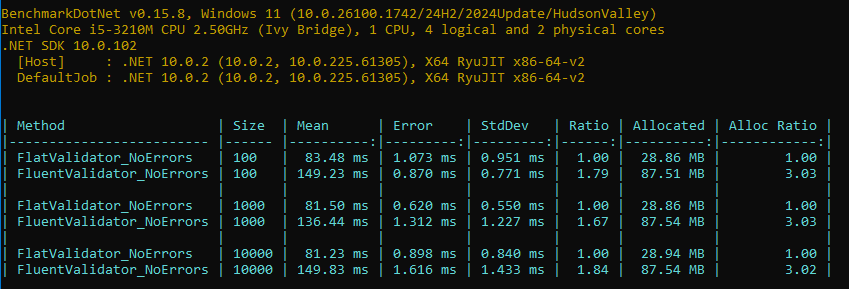
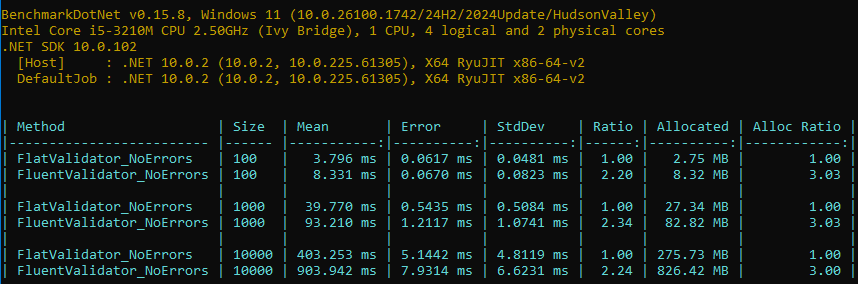
Merge pull request #113 from belset/dev
Beckmark corrections

Pull request: Beckmark corrections

diff --git a/src/FlatValidator.Benchmarks/FlatValidatorForBigModel.cs b/src/FlatValidator.Benchmarks/FlatValidatorForBigModel.cs
@@ -6,51 +6,51 @@ public class FlatValidatorForBigModel : FlatValidator<BigModel>
     public FlatValidatorForBigModel()
     {
         ErrorIf(static m => m.Text1 is null, "Text1 cannot be null", m => m.Text1);
-        ErrorIf(static m => m.Text1 is null || !m.Text1.Contains('a', StringComparison.InvariantCultureIgnoreCase), "Message T1", m => m.Text1);
+        ErrorIf(static m => m.Text1 is not null && !m.Text1.Contains('a', StringComparison.InvariantCultureIgnoreCase), "Message T1", m => m.Text1);
 
         ErrorIf(static m => m.Text2 is null, "Text2 cannot be null", m => m.Text2);
-        ErrorIf(static m => m.Text2 is null || !m.Text2.Contains('b', StringComparison.InvariantCultureIgnoreCase), "Message T2", m => m.Text2);
+        ErrorIf(static m => m.Text2 is not null && !m.Text2.Contains('b', StringComparison.InvariantCultureIgnoreCase), "Message T2", m => m.Text2);
 
         ErrorIf(static m => m.Text3 is null, "Text3 cannot be null", m => m.Text3);
-        ErrorIf(static m => m.Text3 is null || !m.Text3.Contains('c', StringComparison.InvariantCultureIgnoreCase), "Message T3", m => m.Text3);
+        ErrorIf(static m => m.Text3 is not null && !m.Text3.Contains('c', StringComparison.InvariantCultureIgnoreCase), "Message T3", m => m.Text3);
 
         ErrorIf(static m => m.Text4 is null, "Text4 cannot be null", m => m.Text4);
-        ErrorIf(static m => m.Text4 is null || !m.Text4.Contains('d', StringComparison.InvariantCultureIgnoreCase), "Message T4", m => m.Text4);
+        ErrorIf(static m => m.Text4 is not null && !m.Text4.Contains('d', StringComparison.InvariantCultureIgnoreCase), "Message T4", m => m.Text4);
 
         ErrorIf(static m => m.Text5 is null, "Text5 cannot be null", m => m.Text5);
-        ErrorIf(static m => m.Text5 is null || !m.Text5.Contains('e', StringComparison.InvariantCultureIgnoreCase), "Message T5", m => m.Text5);
+        ErrorIf(static m => m.Text5 is not null && !m.Text5.Contains('e', StringComparison.InvariantCultureIgnoreCase), "Message T5", m => m.Text5);
 
         //
         ErrorIf(static m => m.Number1 > 10, "Message N1", m => m.Number1);
         ErrorIf(static m => m.Number2 > 10, "Message N2", m => m.Number2);
         ErrorIf(static m => m.Number3 > 10, "Message N3", m => m.Number3);
 
-        //
+        // plain data
         ErrorIf(static m => m.DecimalNumber1 is null, "S1 cannot be null", m => m.DecimalNumber1);
-        ErrorIf(static m => m.DecimalNumber1 is null || m.DecimalNumber1 > 10, "Message S1", m => m.DecimalNumber1);
+        ErrorIf(static m => m.DecimalNumber1 is not null && m.DecimalNumber1 > 10, "Message S1", m => m.DecimalNumber1);
 
         ErrorIf(static m => m.DecimalNumber2 is null, "S2 cannot be null", m => m.DecimalNumber2);
-        ErrorIf(static m => m.DecimalNumber2 is null || m.DecimalNumber2 > 10, "Message S2", m => m.DecimalNumber2);
+        ErrorIf(static m => m.DecimalNumber2 is not null && m.DecimalNumber2 > 10, "Message S2", m => m.DecimalNumber2);
 
         ErrorIf(static m => m.DecimalNumber3 is null, "S3 cannot be null", m => m.DecimalNumber3);
-        ErrorIf(static m => m.DecimalNumber3 is null || m.DecimalNumber3 > 10, "Message S3", m => m.DecimalNumber3);
+        ErrorIf(static m => m.DecimalNumber3 is not null && m.DecimalNumber3 > 10, "Message S3", m => m.DecimalNumber3);
 
-        //
+        // collections
         ErrorIf(static m => m.StringCollection is null, "String collection cannot be null", m => m.StringCollection);
-        ErrorIf(static m => m.StringCollection is null || !m.StringCollection.All(BigModel.IsValidStringInCollection), "String collection", m => m.StringCollection);
+        ErrorIf(static m => m.StringCollection is not null && !m.StringCollection.All(BigModel.IsValidStringInCollection), "String collection", m => m.StringCollection);
 
         ErrorIf(static m => m.IntCollection is null, "Int collection cannot be null", m => m.IntCollection);
-        ErrorIf(static m => m.IntCollection is null || !m.IntCollection.All(BigModel.IsValidIntInCollection), "Int collection", m => m.IntCollection);
+        ErrorIf(static m => m.IntCollection is not null && !m.IntCollection.All(BigModel.IsValidIntInCollection), "Int collection", m => m.IntCollection);
 
         ErrorIf(static m => m.DecimalCollection is null, "Decimal collection cannot be null", m => m.DecimalCollection);
-        ErrorIf(static m => m.DecimalCollection is null || !m.DecimalCollection.All(BigModel.IsValidDecimalInCollection), "Decimal collection", m => m.DecimalCollection);
+        ErrorIf(static m => m.DecimalCollection is not null && !m.DecimalCollection.All(BigModel.IsValidDecimalInCollection), "Decimal collection", m => m.DecimalCollection);
 
-        //
+        // netsed data
         ErrorIf(static m => m.NestedModel1.NestedText1 is null, "NestedText1 cannot be null", m => m.NestedModel1.NestedText1);
-        ErrorIf(static m => m.NestedModel1.NestedText1 is null || !m.NestedModel1.NestedText1.StartsWith("NestedText1:"), "NestedText1 is invalid", m => m.NestedModel1.NestedText1);
+        ErrorIf(static m => m.NestedModel1.NestedText1 is not null && !m.NestedModel1.NestedText1.StartsWith("NestedText1:"), "NestedText1 is invalid", m => m.NestedModel1.NestedText1);
 
         ErrorIf(static m => m.NestedModel1.NestedText2 is null, "NestedText2 cannot be null", m => m.NestedModel1.NestedText2);
-        ErrorIf(static m => m.NestedModel1.NestedText2 is null || !m.NestedModel1.NestedText2.StartsWith("NestedText2:"), "NestedText2 is invalid", m => m.NestedModel1.NestedText2);
+        ErrorIf(static m => m.NestedModel1.NestedText2 is not null && !m.NestedModel1.NestedText2.StartsWith("NestedText2:"), "NestedText2 is invalid", m => m.NestedModel1.NestedText2);
     }
 }
 

diff --git a/src/FlatValidator.Benchmarks/BenchmarkWithNoErrors.cs b/src/FlatValidator.Benchmarks/BenchmarkWithNoErrors.cs
@@ -20,7 +20,9 @@ public class BenchmarkWithNoErrors
     [GlobalSetup]
     public void GlobalSetup()
     {
-        _noErrorModels = Enumerable.Range(0, 999).Select(x => BigModel.CreateWithNoErrors()).ToList();
+        Bogus.Randomizer.Seed = new Random(1000);
+
+        _noErrorModels = Enumerable.Range(0, Size).Select(x => BigModel.CreateWithNoErrors()).ToList();
 
         foreach (var model in _noErrorModels)
         {
@@ -38,12 +40,13 @@ public class BenchmarkWithNoErrors
     [Benchmark(Baseline = true)]
     public void FlatValidator_NoErrors()
     {
+        var validator = new FlatValidatorForBigModel();
         foreach (var model in _noErrorModels)
         {
-            using var validationResult = new FlatValidatorForBigModel().Validate(model);
+            var validationResult = validator.Validate(model);
             if (!validationResult.IsValid)
             {
-                Debug.Assert(validationResult.Errors.Count > 0);
+                Debug.Assert(validationResult.Errors.Count == 0);
             }
         }
     }
@@ -51,12 +54,13 @@ public class BenchmarkWithNoErrors
     [Benchmark]
     public void FluentValidator_NoErrors()
     {
+        var validator = new FluentValidatorForBigModel();
         foreach (var model in _noErrorModels)
         {
-            var validationResult = new FluentValidatorForBigModel().Validate(model);
+            var validationResult = validator.Validate(model);
             if (!validationResult.IsValid)
             {
-                Debug.Assert(validationResult.Errors.Count > 0);
+                Debug.Assert(validationResult.Errors.Count == 0);
             }
         }
     }

diff --git a/src/FlatValidator.Benchmarks/Models/BigModel.cs b/src/FlatValidator.Benchmarks/Models/BigModel.cs
@@ -1,4 +1,5 @@
 using Bogus;
+using System.Buffers;
 
 namespace FlatValidatorBenchmarks.Models;
 
@@ -76,7 +77,11 @@ public class BigModel
         .RuleFor(m => m.DecimalCollection, f => Enumerable.Range(1, 100).Select(_ => f.Random.Decimal(-10_000, 10_000)).ToList())
         .RuleFor(h => h.NestedModel1, () => CreateNestedWithManyErrors());
 
-    public static Func<string, bool> IsValidStringInCollection => (s) => s.All(ch => Chars.HexLowerCase.Contains(ch));
-    public static Func<int, bool> IsValidIntInCollection => (x) => x >= 0 && x <= 10_000;
-    public static Func<decimal, bool> IsValidDecimalInCollection => (x) => x >= 0 && x <= 10_000;
+
+    //public static Func<string, bool> IsValidStringInCollection => (s) => s.All(ch => Chars.HexLowerCase.Contains(ch));
+    private static readonly SearchValues<char> _IsValidStringInCollectionSearchValues = SearchValues.Create(Chars.HexLowerCase);
+    public static Func<string, bool> IsValidStringInCollection => static (s) => !s.AsSpan().ContainsAnyExcept(_IsValidStringInCollectionSearchValues);
+    
+    public static Func<int, bool> IsValidIntInCollection => static (x) => x >= 0 && x <= 10_000;
+    public static Func<decimal, bool> IsValidDecimalInCollection => static (x) => x >= 0 && x <= 10_000;
 }

diff --git a/src/FlatValidator.Benchmarks/Program.cs b/src/FlatValidator.Benchmarks/Program.cs
@@ -14,10 +14,13 @@ try
 
     BenchmarkRunner.Run<BenchmarkWithNoErrors>(
         DefaultConfig.Instance
+            .HideColumns("Gen0", "Gen1", "Gen2", "RatioSD")
             .WithOption(ConfigOptions.DisableLogFile, false)
             .WithOption(ConfigOptions.KeepBenchmarkFiles, false)
             .WithOption(ConfigOptions.JoinSummary, true)
-            .HideColumns("Gen0", "Gen1", "Gen2", "RatioSD")
+#if DEBUG
+            .WithOptions(ConfigOptions.DisableOptimizationsValidator)
+#endif
     );
 
     Console.WriteLine();
@@ -26,10 +29,13 @@ try
 
     BenchmarkRunner.Run<BenchmarkWithManyErrors>(
         DefaultConfig.Instance
+            .HideColumns("Gen0", "Gen1", "Gen2", "RatioSD")
             .WithOption(ConfigOptions.DisableLogFile, false)
             .WithOption(ConfigOptions.KeepBenchmarkFiles, false)
             .WithOption(ConfigOptions.JoinSummary, true)
-            .HideColumns("Gen0", "Gen1", "Gen2", "RatioSD")
+#if DEBUG
+            .WithOptions(ConfigOptions.DisableOptimizationsValidator)
+#endif
     );
 }
 catch (Exception ex)

diff --git a/src/FlatValidator.Benchmarks/BenchmarkWithManyErrors.cs b/src/FlatValidator.Benchmarks/BenchmarkWithManyErrors.cs
@@ -20,7 +20,10 @@ public class BenchmarkWithManyErrors
     [GlobalSetup]
     public void GlobalSetup()
     {
-        _manyErrorModels = Enumerable.Range(0, 999).Select(x => BigModel.CreateWithManyErrors()).ToList();
+        Bogus.Randomizer.Seed = new Random(1000);
+
+        _manyErrorModels = Enumerable.Range(0, Size).Select(x => BigModel.CreateWithManyErrors()).ToList();
+
     }
 
     [Benchmark(Baseline = true)]
@@ -29,7 +32,7 @@ public class BenchmarkWithManyErrors
         var validator = new FlatValidatorForBigModel();
         foreach (var model in _manyErrorModels)
         {
-            using var validationResult = validator.Validate(model);
+            var validationResult = validator.Validate(model);
             if (!validationResult.IsValid)
             {
                 Debug.Assert(validationResult.Errors.Count > 0);

diff --git a/src/FlatValidator.Benchmarks/FluentValidatorForBigModel.cs b/src/FlatValidator.Benchmarks/FluentValidatorForBigModel.cs
@@ -45,7 +45,7 @@ public class FluentValidatorForBigModel : AbstractValidator<BigModel>
         RuleFor(x => x.StringCollection).Must(coll => coll.All(BigModel.IsValidStringInCollection))
             .WithMessage("String collection").When(m => m.StringCollection != null);
 
-        RuleFor(x => x.StringCollection).NotNull();
+        RuleFor(x => x.IntCollection).NotNull();
         RuleFor(x => x.IntCollection).Must(coll => coll.All(BigModel.IsValidIntInCollection))
             .WithMessage("Int collection").When(m => m.IntCollection != null);
 